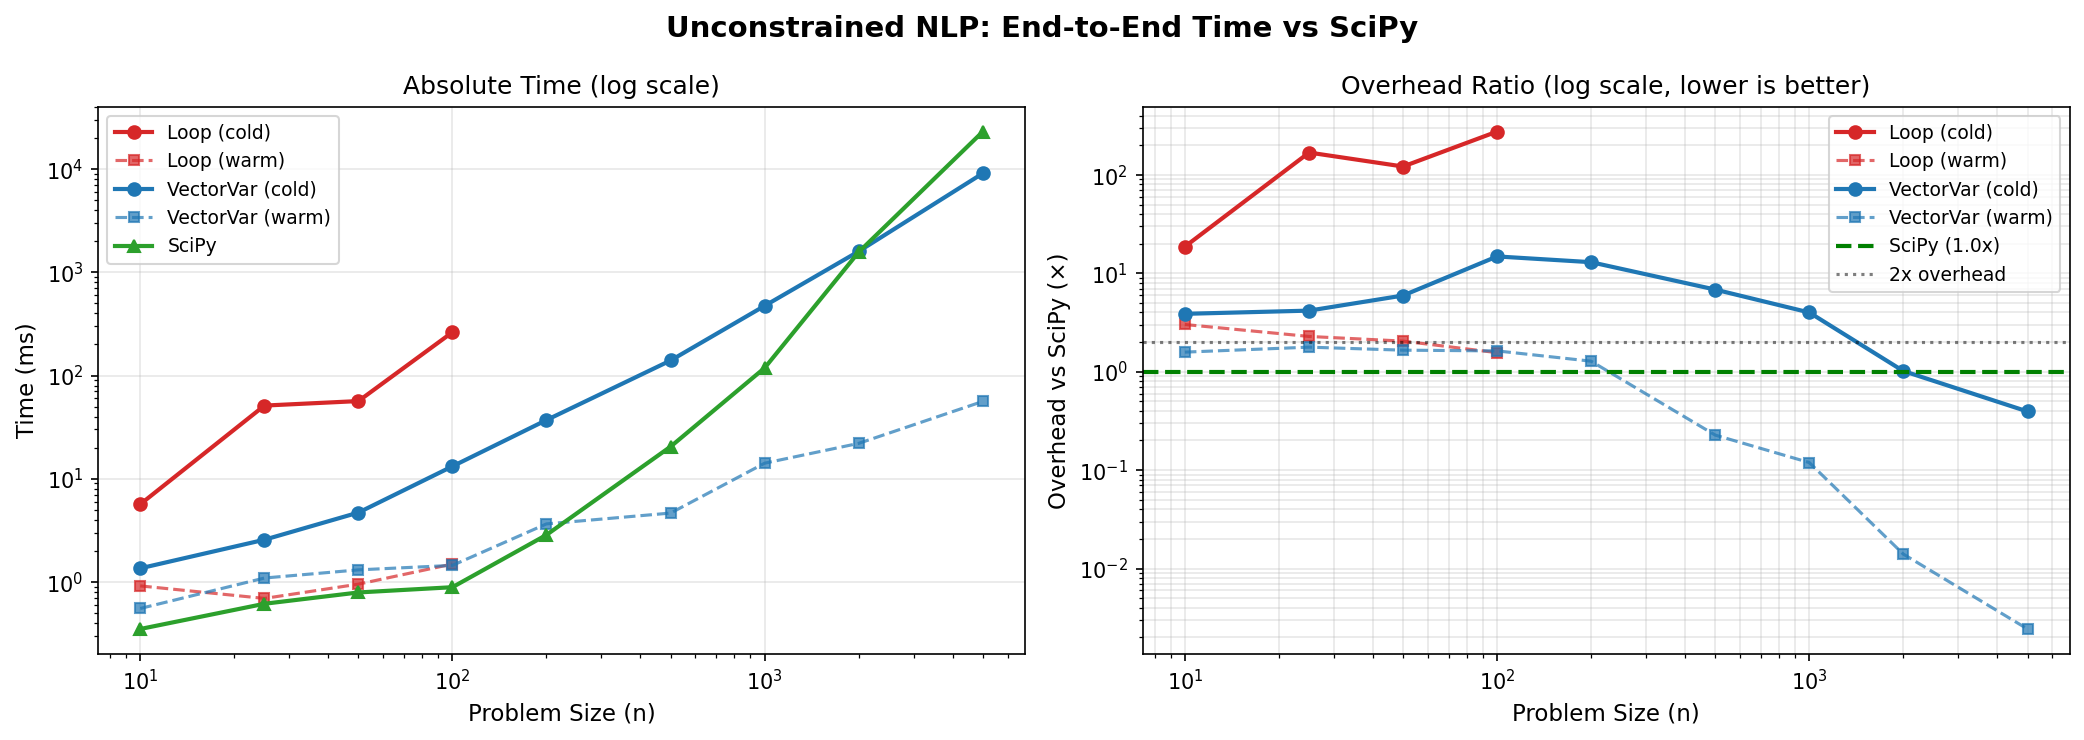
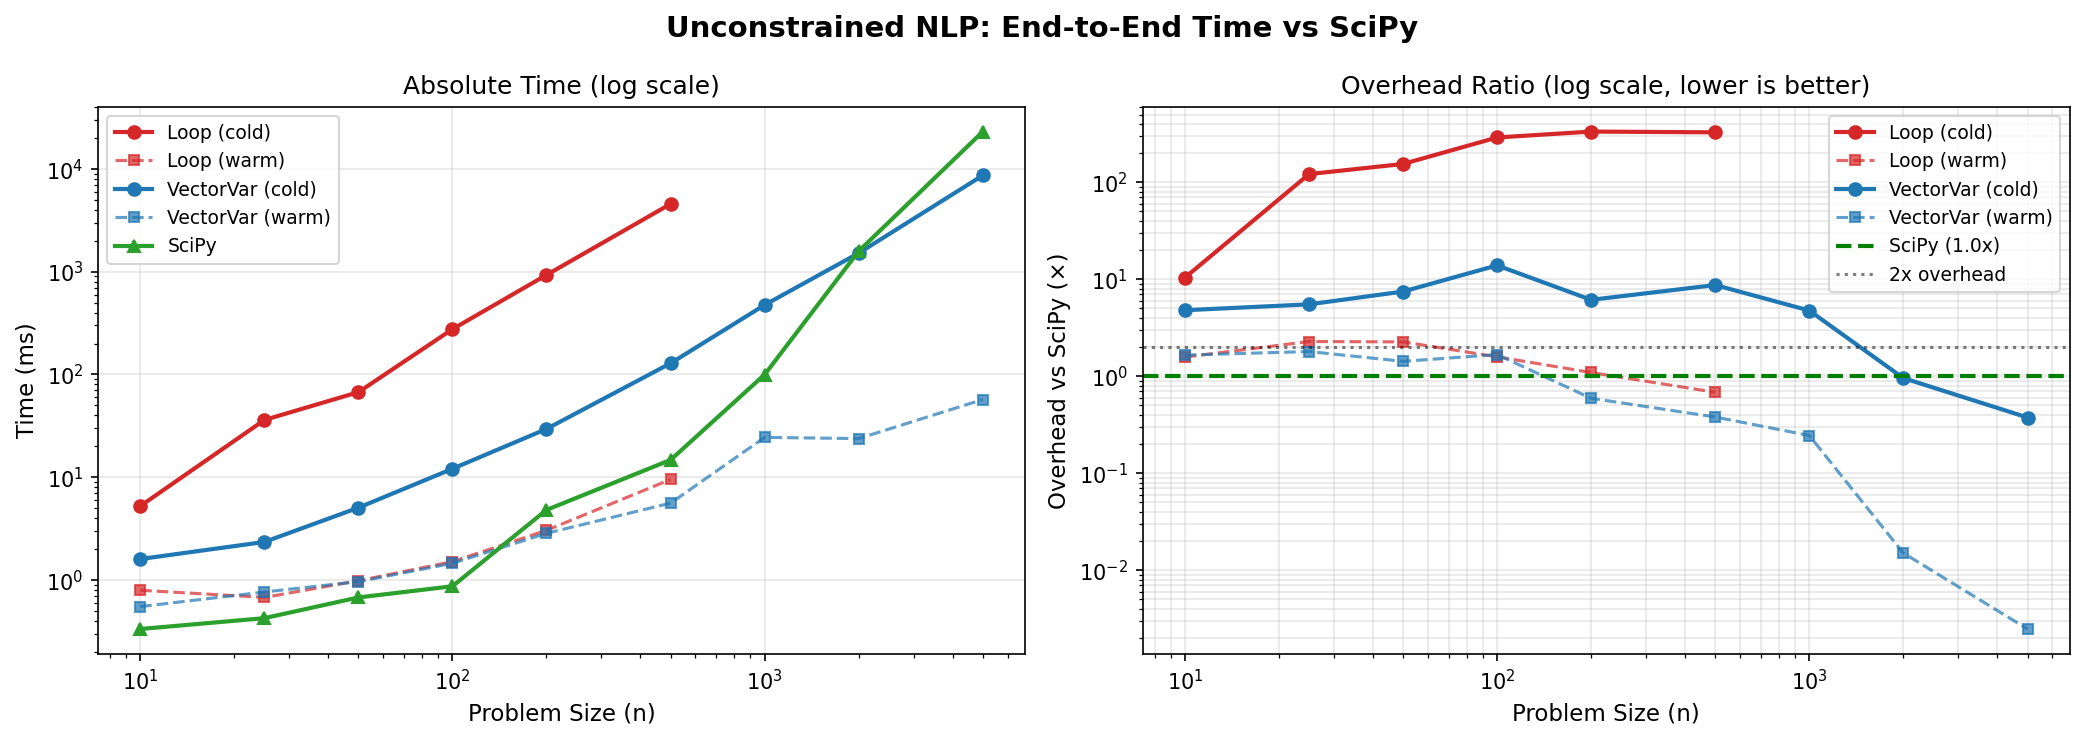
Add gradient rules for NarySum/NaryProduct and additional tests
- Handle NarySum/NaryProduct in _gradient_cached and _gradient_iterative
- Add 6 new test cases (gradients, get_variables, edge cases)
- 15 total nary expression tests passing

diff --git a/src/optyx/core/autodiff.py b/src/optyx/core/autodiff.py
@@ -256,7 +256,14 @@ def _gradient_cached(expr: Expression, wrt: Variable) -> Expression:
 
     Used for shallow expression trees where recursion is safe and fast.
     """
-    from optyx.core.expressions import BinaryOp, Constant, UnaryOp, Variable as Var
+    from optyx.core.expressions import (
+        BinaryOp,
+        Constant,
+        NaryProduct,
+        NarySum,
+        UnaryOp,
+        Variable as Var,
+    )
     from optyx.core.functions import cos, sin, log, cosh, sinh
     from optyx.core.parameters import Parameter
 
@@ -460,6 +467,29 @@ def _gradient_cached(expr: Expression, wrt: Variable) -> Expression:
                 context="gradient computation (unary)",
             )
 
+    # N-ary operations
+    if isinstance(expr, NarySum):
+        # d/dx(a + b + c + ...) = da + db + dc + ...
+        result: Expression = Constant(0.0)
+        for term in expr.terms:
+            result = _simplify_add(result, _gradient_cached(term, wrt))
+        return result
+
+    if isinstance(expr, NaryProduct):
+        # Generalized product rule:
+        # d/dx(a * b * c) = da*b*c + a*db*c + a*b*dc
+        factors = expr.factors
+        result = Constant(0.0)
+        for i, factor in enumerate(factors):
+            d_factor = _gradient_cached(factor, wrt)
+            # Build product of all other factors
+            other_product: Expression = Constant(1.0)
+            for j, other in enumerate(factors):
+                if j != i:
+                    other_product = _simplify_mul(other_product, other)
+            result = _simplify_add(result, _simplify_mul(d_factor, other_product))
+        return result
+
     raise InvalidExpressionError(
         expr_type=type(expr),
         context="gradient computation",
@@ -488,7 +518,14 @@ def _gradient_iterative(expr: Expression, wrt: Variable) -> Expression:
     Returns:
         The gradient expression.
     """
-    from optyx.core.expressions import BinaryOp, Constant, UnaryOp, Variable as Var
+    from optyx.core.expressions import (
+        BinaryOp,
+        Constant,
+        NaryProduct,
+        NarySum,
+        UnaryOp,
+        Variable as Var,
+    )
     from optyx.core.functions import cos, sin, log, cosh, sinh
     from optyx.core.parameters import Parameter
 
@@ -653,6 +690,46 @@ def _gradient_iterative(expr: Expression, wrt: Variable) -> Expression:
                     operator=current.op,
                     context="iterative gradient computation (unary)",
                 )
+            continue
+
+        # N-ary operations
+        if isinstance(current, NarySum):
+            if phase == 0:
+                # Check if all children computed
+                all_done = all(id(t) in results for t in current.terms)
+                if not all_done:
+                    stack.append((current, 1, []))
+                    for t in reversed(current.terms):
+                        if id(t) not in results:
+                            stack.append((t, 0, []))
+                    continue
+            # Sum of gradients
+            grad: Expression = Constant(0.0)
+            for t in current.terms:
+                grad = _simplify_add(grad, results[id(t)])
+            results[node_id] = grad
+            continue
+
+        if isinstance(current, NaryProduct):
+            if phase == 0:
+                all_done = all(id(f) in results for f in current.factors)
+                if not all_done:
+                    stack.append((current, 1, []))
+                    for f in reversed(current.factors):
+                        if id(f) not in results:
+                            stack.append((f, 0, []))
+                    continue
+            # Generalized product rule
+            factors = current.factors
+            grad = Constant(0.0)
+            for i, factor in enumerate(factors):
+                d_factor = results[id(factor)]
+                other_product: Expression = Constant(1.0)
+                for j, other in enumerate(factors):
+                    if j != i:
+                        other_product = _simplify_mul(other_product, other)
+                grad = _simplify_add(grad, _simplify_mul(d_factor, other_product))
+            results[node_id] = grad
             continue
 
         raise InvalidExpressionError(

diff --git a/benchmarks/run_benchmarks.py b/benchmarks/run_benchmarks.py
@@ -382,14 +382,14 @@ def run_lp_scaling():
     print("Compared against: SciPy linprog (no build phase)")
 
     # Loop-based: limited to n=100 due to exponential cold solve time
-    loop_sizes = [10, 25, 50, 100]
+    loop_sizes = [10, 25, 50, 100, 200, 500]
     # VectorVariable: scale to n=5000 to test large problems
     vec_sizes = [10, 25, 50, 100, 200, 500, 1000, 2000, 5000]
 
     loop_results = ScalingResults(label="LP (Loop)")
     vec_results = ScalingResults(label="LP (VectorVariable)")
 
-    print("\n--- Loop-based Variable (n ≤ 100, slow cold solve) ---")
+    print(f"\n--- Loop-based Variable (n ≤ {max(loop_sizes)}, slow cold solve) ---")
     for n in loop_sizes:
         m = n // 2
         np.random.seed(42)
@@ -433,20 +433,20 @@ def run_nlp_scaling():
     print("Measures: Build + Solve (includes gradient compilation)")
 
     # Loop-based: limited to n=100 due to exponential cold solve time
-    loop_sizes = [10, 25, 50, 100]
+    loop_sizes = [10, 25, 50, 100, 200, 500]
     # VectorVariable with vectorized ops: scale to n=10000 to test large problems
     vec_sizes = [10, 25, 50, 100, 200, 500, 1000, 2000, 5000]
 
     loop_results = ScalingResults(label="NLP (Loop)")
     vec_results = ScalingResults(label="NLP (VectorVariable)")
 
-    print("\n--- Loop-based Variable (n ≤ 100, slow cold solve) ---")
+    print(f"\n--- Loop-based Variable (n ≤ {max(loop_sizes)}, slow cold solve) ---")
     for n in loop_sizes:
         r = benchmark_nlp_loop(n)
         loop_results.add(r)
         print_result("Loop", r)
 
-    print("\n--- VectorVariable with x.dot(x) - x.sum() (n ≤ 5,000) ---")
+    print(f"\n--- VectorVariable with x.dot(x) - x.sum() (n ≤ {max(vec_sizes)}) ---")
     for n in vec_sizes:
         r = benchmark_nlp_vector(n)
         vec_results.add(r)
@@ -472,20 +472,20 @@ def run_cqp_scaling():
     print("Measures: Build + Solve (includes gradient/Jacobian compilation)")
 
     # Loop-based: limited to n=100 due to exponential cold solve time
-    loop_sizes = [10, 25, 50, 100]
+    loop_sizes = [10, 25, 50, 100, 200, 500]
     # VectorVariable: scale to n=5000 to test large problems
     vec_sizes = [10, 25, 50, 100, 200, 500, 1000, 2000, 5000]
 
     loop_results = ScalingResults(label="CQP (Loop)")
     vec_results = ScalingResults(label="CQP (VectorVariable)")
 
-    print("\n--- Loop-based Variable (n ≤ 100, slow cold solve) ---")
+    print(f"\n--- Loop-based Variable (n ≤ {max(loop_sizes)}, slow cold solve) ---")
     for n in loop_sizes:
         r = benchmark_cqp_loop(n)
         loop_results.add(r)
         print_result("Loop", r)
 
-    print("\n--- VectorVariable with x.dot(x), x.sum() (n ≤ 5,000) ---")
+    print(f"\n--- VectorVariable with x.dot(x), x.sum() (n ≤ {max(vec_sizes)}) ---")
     for n in vec_sizes:
         r = benchmark_cqp_vector(n)
         vec_results.add(r)

diff --git a/tests/test_nary_expressions.py b/tests/test_nary_expressions.py
@@ -150,3 +150,91 @@ def test_flatten_nary_sum_input():
     assert isinstance(flat, NarySum)
     assert len(flat.terms) == 3
     assert flat.terms == (x, y, z)
+
+
+# ---- Gradient tests ----
+
+
+def test_nary_sum_gradient():
+    """d/dx(x + y + z) = 1 for any term, 0 for others."""
+    from optyx.core.autodiff import gradient
+
+    x = Variable("x")
+    y = Variable("y")
+    z = Variable("z")
+
+    expr = NarySum((x, y, z))
+    grad_x = gradient(expr, x)
+    grad_y = gradient(expr, y)
+
+    assert grad_x.evaluate({}) == 1.0
+    assert grad_y.evaluate({}) == 1.0
+
+
+def test_nary_product_gradient():
+    """d/dx(x * y * z) = y * z."""
+    from optyx.core.autodiff import gradient
+
+    x = Variable("x")
+    y = Variable("y")
+    z = Variable("z")
+
+    expr = NaryProduct((x, y, z))
+    grad_x = gradient(expr, x)
+
+    # d/dx(x * y * z) = y * z
+    assert grad_x.evaluate({"x": 2, "y": 3, "z": 5}) == 15.0
+
+
+def test_nary_sum_gradient_with_constants():
+    """d/dx(2 + x + 3) = 1."""
+    from optyx.core.autodiff import gradient
+    from optyx.core.expressions import Constant
+
+    x = Variable("x")
+    expr = NarySum((Constant(2.0), x, Constant(3.0)))
+    grad = gradient(expr, x)
+
+    assert grad.evaluate({"x": 99}) == 1.0
+
+
+def test_nary_get_variables():
+    """NarySum and NaryProduct report all contained variables."""
+    x = Variable("x")
+    y = Variable("y")
+    z = Variable("z")
+
+    s = NarySum((x, y, z))
+    p = NaryProduct((x, z))
+
+    assert s.get_variables() == {x, y, z}
+    assert p.get_variables() == {x, z}
+
+
+def test_flatten_deep_product():
+    """x0 * x1 * ... * x9 flattens to NaryProduct."""
+    vars = [Variable(f"x{i}") for i in range(10)]
+
+    expr = vars[0]
+    for i in range(1, 10):
+        expr = expr * vars[i]
+
+    flat = flatten_expression(expr)
+
+    assert isinstance(flat, NaryProduct)
+    assert len(flat.factors) == 10
+
+
+def test_flatten_does_not_mix_ops():
+    """(a + b) * (c + d) should NOT flatten across different operators."""
+    a = Variable("a")
+    b = Variable("b")
+    c = Variable("c")
+    d = Variable("d")
+
+    expr = (a + b) * (c + d)
+    flat = flatten_expression(expr)
+
+    # Top-level is *, children are sums — should not merge + and *
+    assert isinstance(flat, BinaryOp)
+    assert flat.op == "*"
